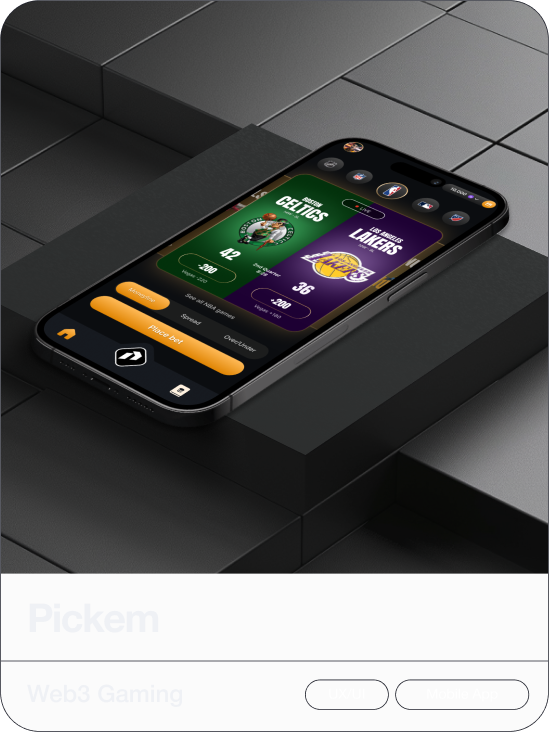
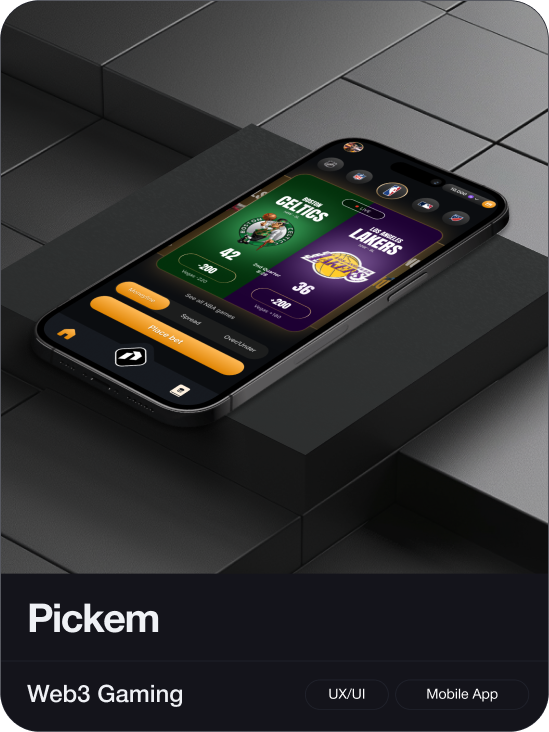
added solid cards and styling

Changed region(s): [[0.0, 0.7814, 1.0, 1.0]]

diff --git a/styles.css b/styles.css
@@ -360,6 +360,7 @@ body {
     color: white;
     transition: top 0.8s ease, bottom 0.8s ease, opacity 0.5s ease-in-out;
     border: 1px solid rgba(255, 255, 255, 0.206);
+    min-width: 436px;
 }
 
 .nav-link {
@@ -2760,7 +2761,7 @@ li {
 
         height: 52px;
         width: 81%;
-        margin-bottom: 24pxx;
+        margin-bottom: 24px;
     }
 
 }
@@ -2769,7 +2770,12 @@ li {
 @media only screen and (max-width: 414px) and (max-height: 896px) {}
 
 
-@media only screen and (max-width: 390px) and (max-height: 844px) {}
+@media only screen and (max-width: 397px) and (max-height: 844px) {
+
+    .hero {
+        margin-bottom: 76px;
+    }
+}
 
 
 
